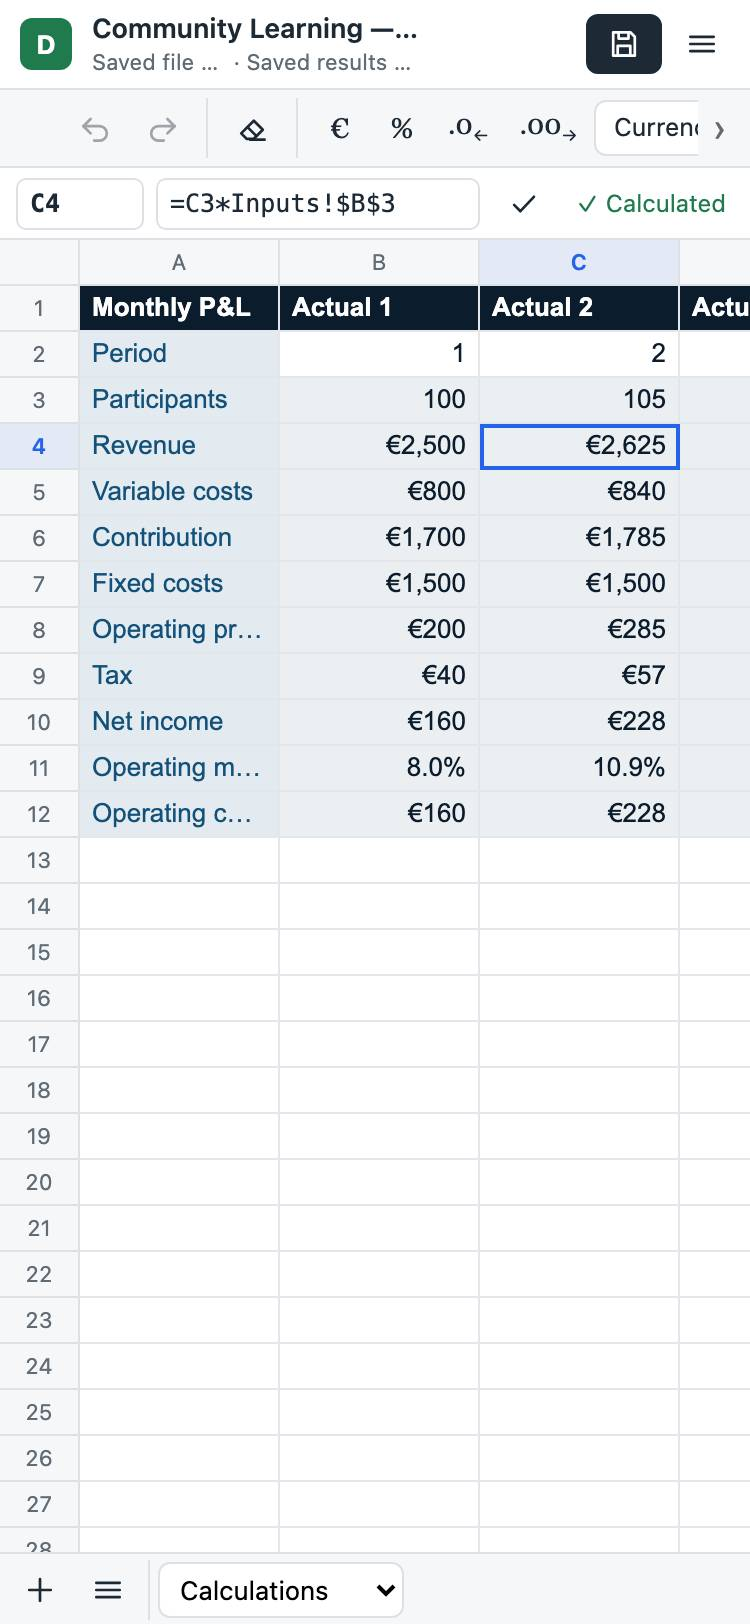
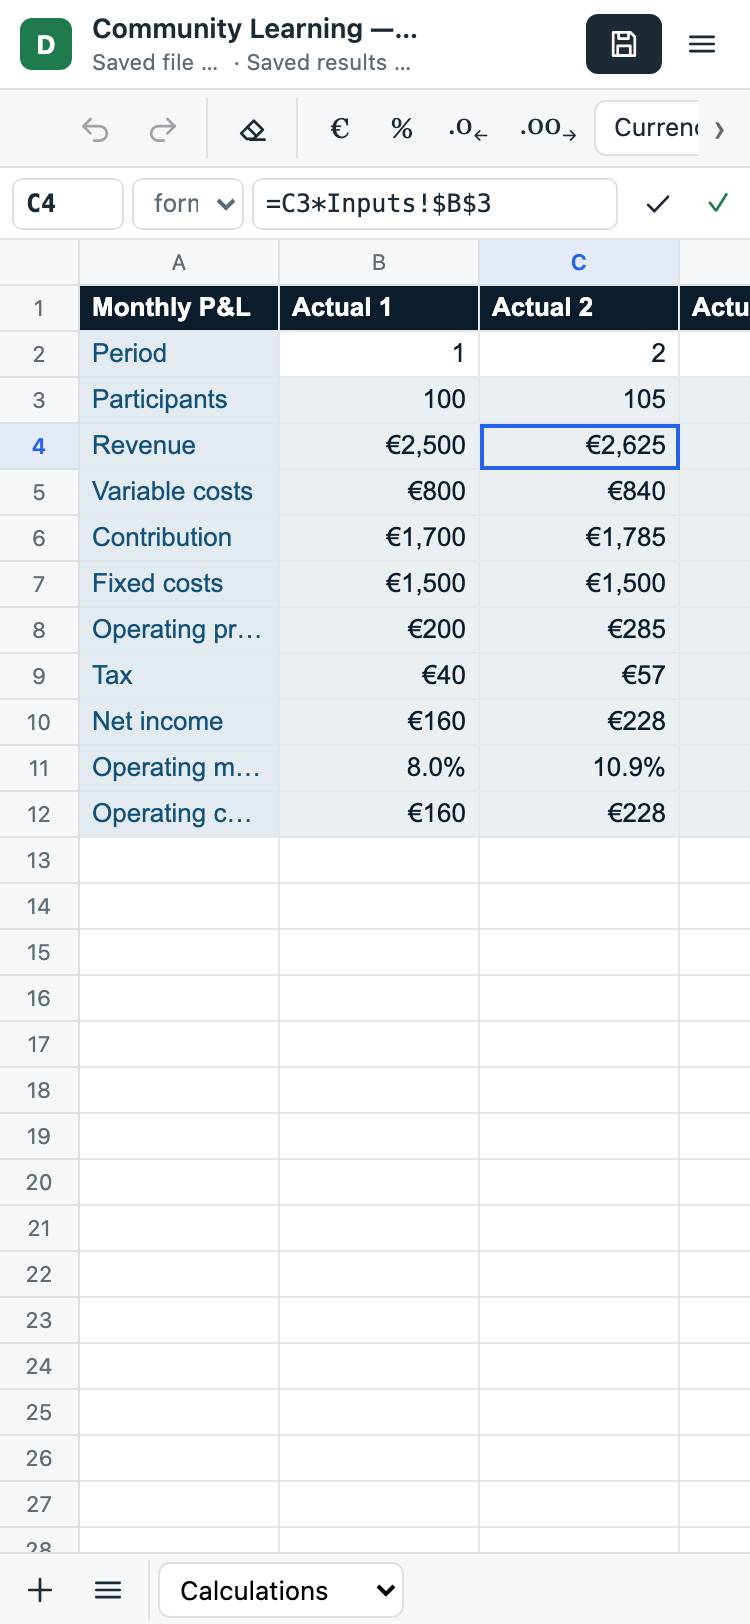
fix(shell): address cross-lineage review of U04-Data
- Keep the input type picker below 720 px, and pick a type when typing
  into an empty cell's value field, as typing in the grid does.
- Menu type-ahead skips disabled items, so arrow keys keep working.
- Toolbar overflow arrows are named, keyboard-reachable items at both
  ends of the roving order; Home, End and the tab stop skip them.
- A verified workbook without formulas shows "Calculated", not stale.
- Formula-bar controls shrink at narrow widths, so wider fonts (Linux
  CI) no longer overflow the page at 320 px.

diff --git a/packages/data/runtime/style.css b/packages/data/runtime/style.css
@@ -9,9 +9,9 @@
 .formula-bar .name-box{width:76px;flex:none;font-weight:600;font-family:ui-monospace,Menlo,monospace}
 .formula-bar #cell-type{width:84px;flex:none;color:var(--sh-mute)}
 .fx{font:italic 600 14px Georgia,"Times New Roman",serif;color:var(--sh-mute);padding:0 2px;flex:none}
-.formula-bar #cell-value{flex:1 1 auto;font-family:ui-monospace,Menlo,monospace}
+.formula-bar #cell-value{flex:1 1 48px;min-width:40px;font-family:ui-monospace,Menlo,monospace}
 .formula-bar #apply{height:26px;min-width:28px}
-.dropdown-control{display:flex;align-items:center;gap:6px;flex:none;min-width:0}.dropdown-control[hidden]{display:none}
+.dropdown-control{display:flex;align-items:center;gap:6px;flex:0 1 auto;min-width:0}.dropdown-control[hidden]{display:none}
 .dropdown-control label{font-size:12px;color:var(--sh-mute);white-space:nowrap}
 .dropdown-control select{max-width:180px;min-width:96px}.dropdown-control select[aria-invalid=true]{border-color:var(--sh-err)}
 /* A dropdown note is shown under the bar only when there is something to say. */
@@ -21,7 +21,7 @@
 .calc{display:flex;align-items:center;gap:4px;flex:none}
 #calc-state{display:inline-flex;align-items:center;gap:4px;font-size:12px;white-space:nowrap;padding:0 4px;color:var(--sh-mute)}
 #calc-state[data-tone=ok]{color:var(--sh-ok)}#calc-state[data-tone=ok]::before{content:"✓"}
-#calc-state[data-tone=warn]{color:var(--sh-warn)}#calc-state[data-tone=warn]::before{content:"!";font-weight:700}
+#calc-state[data-tone=warn]{color:var(--sh-warn)}#calc-state[data-tone=warn]::before{content:"!";font-weight:700}#calc-state[data-tone=busy]::before{content:"…"}
 .calc .sh-b{height:26px;font-size:12px;border-color:var(--sh-line)}
 /* Grid */
 .canvas{flex:1 1 auto;min-height:0;display:flex;margin:0}
@@ -53,7 +53,7 @@
 #sheet-tabs .calculations .sheet-tab{background:var(--calculation-bg,var(--tint))}#sheet-tabs .calculations .sheet-tab[aria-pressed=true]{background:var(--t2);color:var(--bg)}
 .group-empty{align-self:center;font-size:12px;color:var(--sh-mute);padding:0 8px}
 #sheet-select{display:none;height:28px;max-width:60vw;border:1px solid var(--sh-line);border-radius:6px;background:#fff;font:inherit;padding:0 6px}
-@media (max-width:719.98px){#sheet-tabs{display:none}#sheet-select{display:block}.formula-bar #cell-type,.fx,.dropdown-control label{display:none}.formula-bar .name-box{width:64px}.dropdown-control select{max-width:30vw;min-width:0}}
+@media (max-width:719.98px){#sheet-tabs{display:none}#sheet-select{display:block}.fx,.dropdown-control label{display:none}#calc-state{font-size:0;gap:0}#calc-state::before{font-size:14px}.formula-bar{gap:4px;padding:0 6px}.formula-bar .name-box,.formula-bar #cell-type{flex:0 1 auto;min-width:36px}.formula-bar #cell-type{width:56px}.dropdown-control select{min-width:48px}#sheet-select{flex:0 1 auto;min-width:0}.formula-bar .name-box{width:56px}.dropdown-control select{max-width:30vw}}
 /* Dialogs keep native controls. */
 dialog button,dialog input,dialog select{font:inherit}dialog button{border:1px solid var(--border);border-radius:4px;padding:6px 12px;background:var(--bg);color:var(--blue);cursor:pointer}dialog button:hover{background:var(--light)}dialog button:disabled{opacity:.5;cursor:default}dialog input,dialog select{padding:6px 8px;border:1px solid var(--bd);border-radius:3px}dialog :focus-visible{outline:2px solid var(--select);outline-offset:2px}
 dialog{max-width:min(900px,94vw);border:1px solid var(--border);border-radius:6px;color:inherit;padding:24px}dialog::backdrop{background:color-mix(in srgb,var(--ink) 40%,transparent)}dialog label{display:flex;flex-direction:column;gap:6px}dialog textarea{width:100%;font:13px monospace;padding:10px;resize:vertical}.paste-options{display:flex;flex-wrap:wrap;gap:16px;margin:16px 0}#paste-preview{max-height:200px;overflow:auto;background:var(--light);padding:12px}
